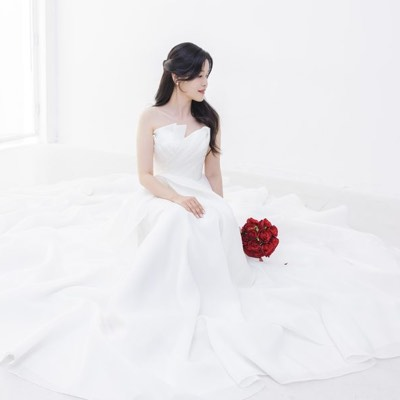
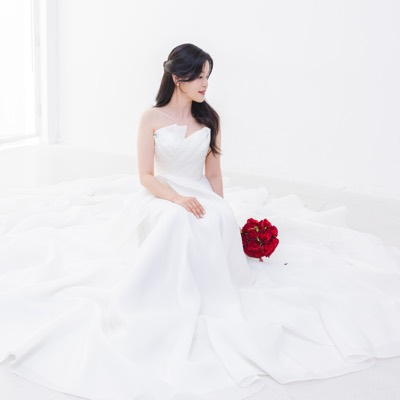
1번(가로 대표) 사진 교체 + 해상도 상향
넘겨받은 원본이 2190x1460 으로, 쓰고 있던 900x597 보다 가로 2.4배
(픽셀 수 6배) 큽니다. 실제로 흐릿했던 게 맞았습니다 — 뷰어에서
표시 폭 464px 에 원본이 900px 이라 1.94배밖에 안 됐습니다.
(고해상도 폰에서 또렷하려면 3배는 필요합니다.)

- g01.jpg  900x597  -> 1398x932   (뷰어 배율 1.94x -> 3.01x)
- wide.jpg 1200x900 -> 1600x1200  (그리드 대표 배율 3.14x -> 4.19x)

흰 배경이 대부분이라 압축이 잘 돼서, 해상도를 올렸는데도 용량은
거의 그대로입니다 (g01 21 -> 50KB, wide 47 -> 68KB).

build_assets.py 도 첫 장만 1400px 로 뽑도록 고쳤습니다. 첫 장은
그리드에서 전폭으로 깔리고 뷰어에서도 가장 크게 보여서, 다른 장과
같은 900px 로는 부족합니다.

파일명이 그대로라 캐시 버전을 ?v=16 -> ?v=17 로 올렸습니다.

확인: 19장 로드 실패 0건 / 버전 누락 0건, 1번 뷰어 3.01x,
그리드 대표 4.19x.

Assisted-by: Claude Code (Opus 5)

diff --git a/index.html b/index.html
@@ -10,7 +10,7 @@
 <meta property="og:title" content="이수영 ♥ 이정은 결혼합니다">
 <meta property="og:description" content="2026년 12월 12일 토요일 오후 4시, 세인트메리엘 1층 메리엘홀">
 <meta property="og:url" content="https://suyoung-lee.github.io/wedding/">
-<meta property="og:image" content="https://suyoung-lee.github.io/wedding/assets/og.jpg?v=16">
+<meta property="og:image" content="https://suyoung-lee.github.io/wedding/assets/og.jpg?v=17">
 <meta name="description" content="2026년 12월 12일 토요일 오후 4시, 세인트메리엘 1층 메리엘홀">
 <meta name="theme-color" content="#fbfaf7">
 
@@ -283,7 +283,7 @@
   <!-- ══════════ 표지 ══════════ -->
   <header class="cover">
     <div class="photo noSave">
-      <img src="assets/cover.jpg?v=16" alt="신랑 이수영, 신부 이정은" draggable="false">
+      <img src="assets/cover.jpg?v=17" alt="신랑 이수영, 신부 이정은" draggable="false">
     </div>
     <div class="fade"></div>
     <div class="frame"></div>
@@ -354,25 +354,25 @@
   <section>
     <p class="label">Gallery</p>
     <div class="grid collapsed noSave" id="grid">
-      <button class="ph wide" type="button" data-full="assets/g01.jpg?v=16" aria-label="웨딩 사진 1번, 크게 보기"><img src="assets/wide.jpg?v=16" alt="" loading="lazy"></button>
-      <button class="ph" type="button" data-full="assets/g02.jpg?v=16" aria-label="웨딩 사진 2번, 크게 보기"><img src="assets/t02.jpg?v=16" alt="" loading="lazy"></button>
-      <button class="ph" type="button" data-full="assets/g03.jpg?v=16" aria-label="웨딩 사진 3번, 크게 보기"><img src="assets/t03.jpg?v=16" alt="" loading="lazy"></button>
-      <button class="ph" type="button" data-full="assets/g04.jpg?v=16" aria-label="웨딩 사진 4번, 크게 보기"><img src="assets/t04.jpg?v=16" alt="" loading="lazy"></button>
-      <button class="ph" type="button" data-full="assets/g05.jpg?v=16" aria-label="웨딩 사진 5번, 크게 보기"><img src="assets/t05.jpg?v=16" alt="" loading="lazy"></button>
-      <button class="ph" type="button" data-full="assets/g06.jpg?v=16" aria-label="웨딩 사진 6번, 크게 보기"><img src="assets/t06.jpg?v=16" alt="" loading="lazy"></button>
-      <button class="ph" type="button" data-full="assets/g07.jpg?v=16" aria-label="웨딩 사진 7번, 크게 보기"><img src="assets/t07.jpg?v=16" alt="" loading="lazy"></button>
-      <button class="ph" type="button" data-full="assets/g08.jpg?v=16" aria-label="웨딩 사진 8번, 크게 보기"><img src="assets/t08.jpg?v=16" alt="" loading="lazy"></button>
-      <button class="ph" type="button" data-full="assets/g09.jpg?v=16" aria-label="웨딩 사진 9번, 크게 보기"><img src="assets/t09.jpg?v=16" alt="" loading="lazy"></button>
-      <button class="ph" type="button" data-full="assets/g10.jpg?v=16" aria-label="웨딩 사진 10번, 크게 보기"><img src="assets/t10.jpg?v=16" alt="" loading="lazy"></button>
-      <button class="ph" type="button" data-full="assets/g11.jpg?v=16" aria-label="웨딩 사진 11번, 크게 보기"><img src="assets/t11.jpg?v=16" alt="" loading="lazy"></button>
-      <button class="ph" type="button" data-full="assets/g12.jpg?v=16" aria-label="웨딩 사진 12번, 크게 보기"><img src="assets/t12.jpg?v=16" alt="" loading="lazy"></button>
-      <button class="ph" type="button" data-full="assets/g13.jpg?v=16" aria-label="웨딩 사진 13번, 크게 보기"><img src="assets/t13.jpg?v=16" alt="" loading="lazy"></button>
-      <button class="ph" type="button" data-full="assets/g14.jpg?v=16" aria-label="웨딩 사진 14번, 크게 보기"><img src="assets/t14.jpg?v=16" alt="" loading="lazy"></button>
-      <button class="ph" type="button" data-full="assets/g15.jpg?v=16" aria-label="웨딩 사진 15번, 크게 보기"><img src="assets/t15.jpg?v=16" alt="" loading="lazy"></button>
-      <button class="ph" type="button" data-full="assets/g16.jpg?v=16" aria-label="웨딩 사진 16번, 크게 보기"><img src="assets/t16.jpg?v=16" alt="" loading="lazy"></button>
-      <button class="ph" type="button" data-full="assets/g17.jpg?v=16" aria-label="웨딩 사진 17번, 크게 보기"><img src="assets/t17.jpg?v=16" alt="" loading="lazy"></button>
-      <button class="ph" type="button" data-full="assets/g18.jpg?v=16" aria-label="웨딩 사진 18번, 크게 보기"><img src="assets/t18.jpg?v=16" alt="" loading="lazy"></button>
-      <button class="ph" type="button" data-full="assets/g19.jpg?v=16" aria-label="웨딩 사진 19번, 크게 보기"><img src="assets/t19.jpg?v=16" alt="" loading="lazy"></button>
+      <button class="ph wide" type="button" data-full="assets/g01.jpg?v=17" aria-label="웨딩 사진 1번, 크게 보기"><img src="assets/wide.jpg?v=17" alt="" loading="lazy"></button>
+      <button class="ph" type="button" data-full="assets/g02.jpg?v=17" aria-label="웨딩 사진 2번, 크게 보기"><img src="assets/t02.jpg?v=17" alt="" loading="lazy"></button>
+      <button class="ph" type="button" data-full="assets/g03.jpg?v=17" aria-label="웨딩 사진 3번, 크게 보기"><img src="assets/t03.jpg?v=17" alt="" loading="lazy"></button>
+      <button class="ph" type="button" data-full="assets/g04.jpg?v=17" aria-label="웨딩 사진 4번, 크게 보기"><img src="assets/t04.jpg?v=17" alt="" loading="lazy"></button>
+      <button class="ph" type="button" data-full="assets/g05.jpg?v=17" aria-label="웨딩 사진 5번, 크게 보기"><img src="assets/t05.jpg?v=17" alt="" loading="lazy"></button>
+      <button class="ph" type="button" data-full="assets/g06.jpg?v=17" aria-label="웨딩 사진 6번, 크게 보기"><img src="assets/t06.jpg?v=17" alt="" loading="lazy"></button>
+      <button class="ph" type="button" data-full="assets/g07.jpg?v=17" aria-label="웨딩 사진 7번, 크게 보기"><img src="assets/t07.jpg?v=17" alt="" loading="lazy"></button>
+      <button class="ph" type="button" data-full="assets/g08.jpg?v=17" aria-label="웨딩 사진 8번, 크게 보기"><img src="assets/t08.jpg?v=17" alt="" loading="lazy"></button>
+      <button class="ph" type="button" data-full="assets/g09.jpg?v=17" aria-label="웨딩 사진 9번, 크게 보기"><img src="assets/t09.jpg?v=17" alt="" loading="lazy"></button>
+      <button class="ph" type="button" data-full="assets/g10.jpg?v=17" aria-label="웨딩 사진 10번, 크게 보기"><img src="assets/t10.jpg?v=17" alt="" loading="lazy"></button>
+      <button class="ph" type="button" data-full="assets/g11.jpg?v=17" aria-label="웨딩 사진 11번, 크게 보기"><img src="assets/t11.jpg?v=17" alt="" loading="lazy"></button>
+      <button class="ph" type="button" data-full="assets/g12.jpg?v=17" aria-label="웨딩 사진 12번, 크게 보기"><img src="assets/t12.jpg?v=17" alt="" loading="lazy"></button>
+      <button class="ph" type="button" data-full="assets/g13.jpg?v=17" aria-label="웨딩 사진 13번, 크게 보기"><img src="assets/t13.jpg?v=17" alt="" loading="lazy"></button>
+      <button class="ph" type="button" data-full="assets/g14.jpg?v=17" aria-label="웨딩 사진 14번, 크게 보기"><img src="assets/t14.jpg?v=17" alt="" loading="lazy"></button>
+      <button class="ph" type="button" data-full="assets/g15.jpg?v=17" aria-label="웨딩 사진 15번, 크게 보기"><img src="assets/t15.jpg?v=17" alt="" loading="lazy"></button>
+      <button class="ph" type="button" data-full="assets/g16.jpg?v=17" aria-label="웨딩 사진 16번, 크게 보기"><img src="assets/t16.jpg?v=17" alt="" loading="lazy"></button>
+      <button class="ph" type="button" data-full="assets/g17.jpg?v=17" aria-label="웨딩 사진 17번, 크게 보기"><img src="assets/t17.jpg?v=17" alt="" loading="lazy"></button>
+      <button class="ph" type="button" data-full="assets/g18.jpg?v=17" aria-label="웨딩 사진 18번, 크게 보기"><img src="assets/t18.jpg?v=17" alt="" loading="lazy"></button>
+      <button class="ph" type="button" data-full="assets/g19.jpg?v=17" aria-label="웨딩 사진 19번, 크게 보기"><img src="assets/t19.jpg?v=17" alt="" loading="lazy"></button>
     </div>
     <button class="more" type="button" id="more">사진 더보기<span class="chev" aria-hidden="true"></span></button>
   </section>
@@ -385,8 +385,8 @@
     <h2>세인트메리엘</h2>
     <p class="sub">1층 메리엘홀</p>
 
-    <a class="mapWrap noSave" href="assets/map-full.png?v=16" target="_blank" rel="noopener">
-      <img src="assets/map.png?v=16" alt="세인트메리엘 약도" loading="lazy" draggable="false">
+    <a class="mapWrap noSave" href="assets/map-full.png?v=17" target="_blank" rel="noopener">
+      <img src="assets/map.png?v=17" alt="세인트메리엘 약도" loading="lazy" draggable="false">
     </a>
     <p class="mapHint">약도를 누르면 크게 볼 수 있습니다</p>
 

diff --git a/build_assets.py b/build_assets.py
@@ -18,8 +18,8 @@ OUT = "assets"
 # index.html 의 이미지 URL 뒤 ?v=N 캐시 버전. 파일명을 그대로 두고 사진 내용만
 # 바꾸면 이미 청첩장을 열어본 브라우저가 캐시된 옛 사진을 계속 보여줍니다
 # (썸네일만 바뀌고 뷰어는 옛 사진이 뜨는 식). 사진을 갈아끼울 때마다 올리세요.
-#   sed -i '' 's/?v=[0-9]*/?v=17/g' index.html
-ASSET_V = 16
+#   sed -i '' 's/?v=[0-9]*/?v=18/g' index.html
+ASSET_V = 17
 os.makedirs(OUT, exist_ok=True)
 
 A = lambda n: os.path.join(SRC, f"KakaoTalk_20260909_203020487{n}.png")
@@ -33,7 +33,7 @@ N = lambda n: os.path.join(SRC, f"{n}.png")
 # 검정 배경 컷은 톤이 확 달라서 맨 뒤로 뺐습니다.
 ORDER = [
     # 첫 장 = 그리드 대표 (가로 4:3 전폭). 유일한 가로 컷.
-    (A("_12"), "화이트 스튜디오 - 드레스 전신"),          # ← 가로 사진
+    (N("Q_드레스전신_가로"), "화이트 스튜디오 - 드레스 전신"),   # ← 유일한 가로 사진
     # 화이트 스튜디오 (거울)
     (A("_04"), "화이트 스튜디오 - 거울 앞 신부"),
     (N("B_거울앞신랑"),   "화이트 스튜디오 - 거울 앞 신랑"),
@@ -72,7 +72,7 @@ ORDER = [
 #    잘린 뒤라 좌표가 다릅니다. 아래 to_portrait 가 정규화 후 좌표로 알아서 바꿉니다.
 #   재측정: swift tools/faces.swift imgs/*.png
 FACE = [
-    (0.569, 0.213),   #  1 드레스 전신
+    (0.567, 0.214),   #  1 드레스 전신 (가로)
     (0.259, 0.236),   #  2 거울 앞 신부
     (0.522, 0.193),   #  3 거울 앞 신랑      (거울 속 반영 + 실제 인물 둘 다 인식됨)
     (0.342, 0.221),   #  4 거울 앞 두 사람
@@ -150,11 +150,13 @@ for i, (f, alt) in enumerate(ORDER, 1):
     fx, fy = FACE[i - 1]
     if src.height > src.width:                      # 세로 사진만 비율을 맞춥니다
         src, (fx, fy) = to_portrait(src, fx, fy, recenter=i not in NO_RECENTER)
-    size, nbytes = save_jpg(src, os.path.join(OUT, name), 900)
+    # 첫 장(가로 대표)은 그리드에서 전폭으로 깔리고 뷰어에서도 가장 크게
+    # 보여서, 900px 로는 고해상도 폰에서 흐릿합니다. 이 장만 넉넉하게.
+    size, nbytes = save_jpg(src, os.path.join(OUT, name), 1400 if i == 1 else 900)
     total += nbytes
     wide = size[0] > size[1]
     manifest.append((name, alt, wide))
-    # 그리드 썸네일: 정사각 400px (레퍼런스와 동일). 첫 장은 4:3 대표 1200x900 도 추가
+    # 그리드 썸네일: 정사각 400px (레퍼런스와 동일). 첫 장은 4:3 대표 1600x1200 도 추가
     # (fx, fy 는 위에서 정규화 후 좌표로 갱신된 값)
     def _crop(im, ratio):
         """얼굴이 가운데(세로는 위 1/3) 오도록 ratio 비율로 잘라냅니다."""
@@ -166,7 +168,7 @@ for i, (f, alt) in enumerate(ORDER, 1):
     _crop(src, 1).resize((400, 400), Image.LANCZOS).save(os.path.join(OUT, f"t{i:02d}.jpg"), "JPEG", quality=82, optimize=True)
     total += os.path.getsize(os.path.join(OUT, f"t{i:02d}.jpg"))
     if i == 1:
-        _crop(src, 4 / 3).resize((1200, 900), Image.LANCZOS).save(os.path.join(OUT, "wide.jpg"), "JPEG", quality=84, optimize=True)
+        _crop(src, 4 / 3).resize((1600, 1200), Image.LANCZOS).save(os.path.join(OUT, "wide.jpg"), "JPEG", quality=84, optimize=True)
         total += os.path.getsize(os.path.join(OUT, "wide.jpg"))
     print(f"{name}  {size[0]}x{size[1]:<5} {nbytes/1024:6.0f}KB  {'[가로]' if wide else ''}  {alt}")
 
